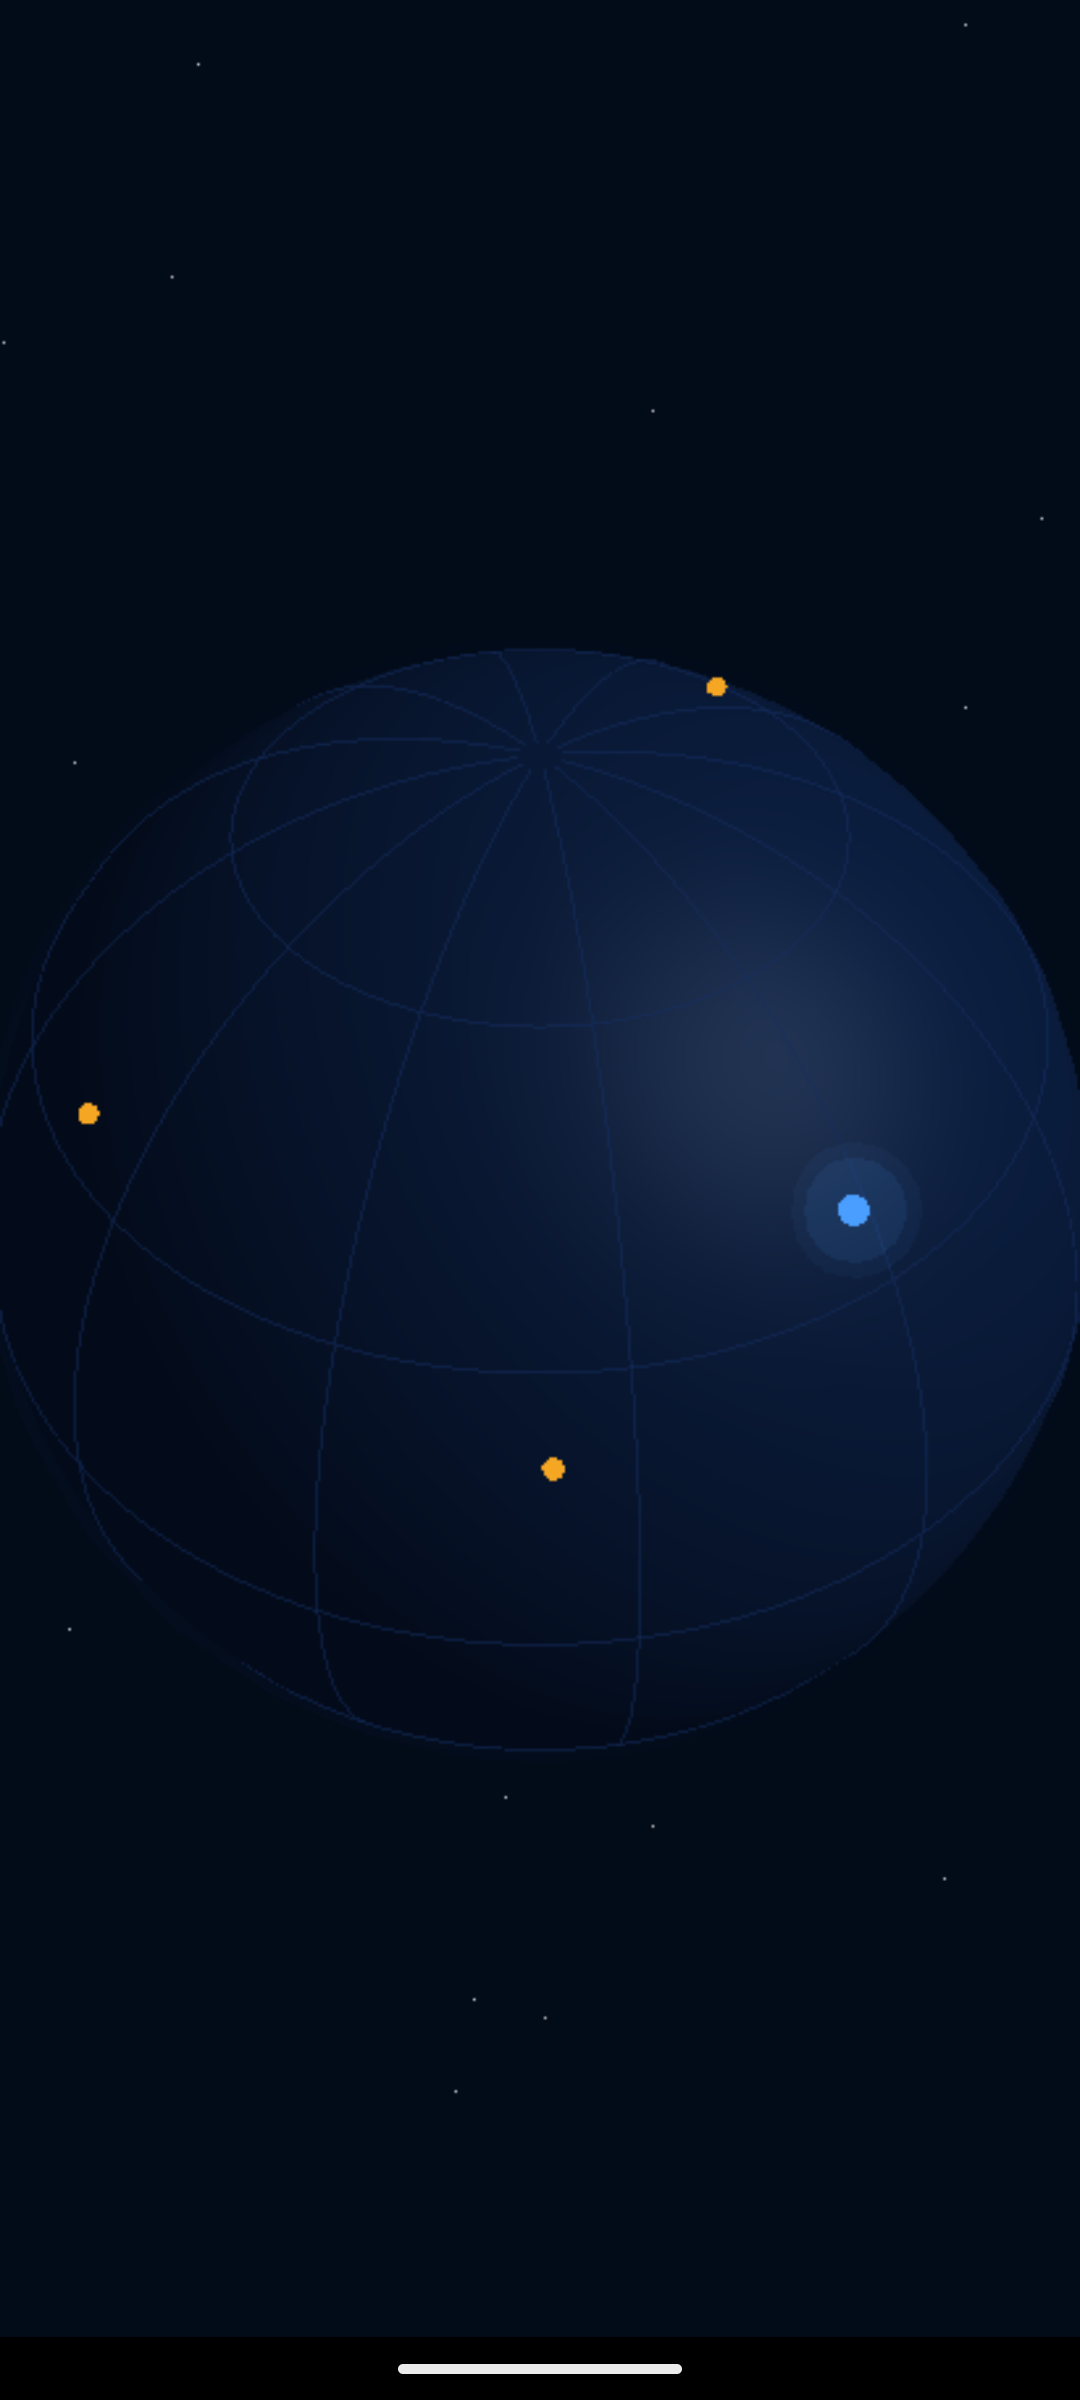
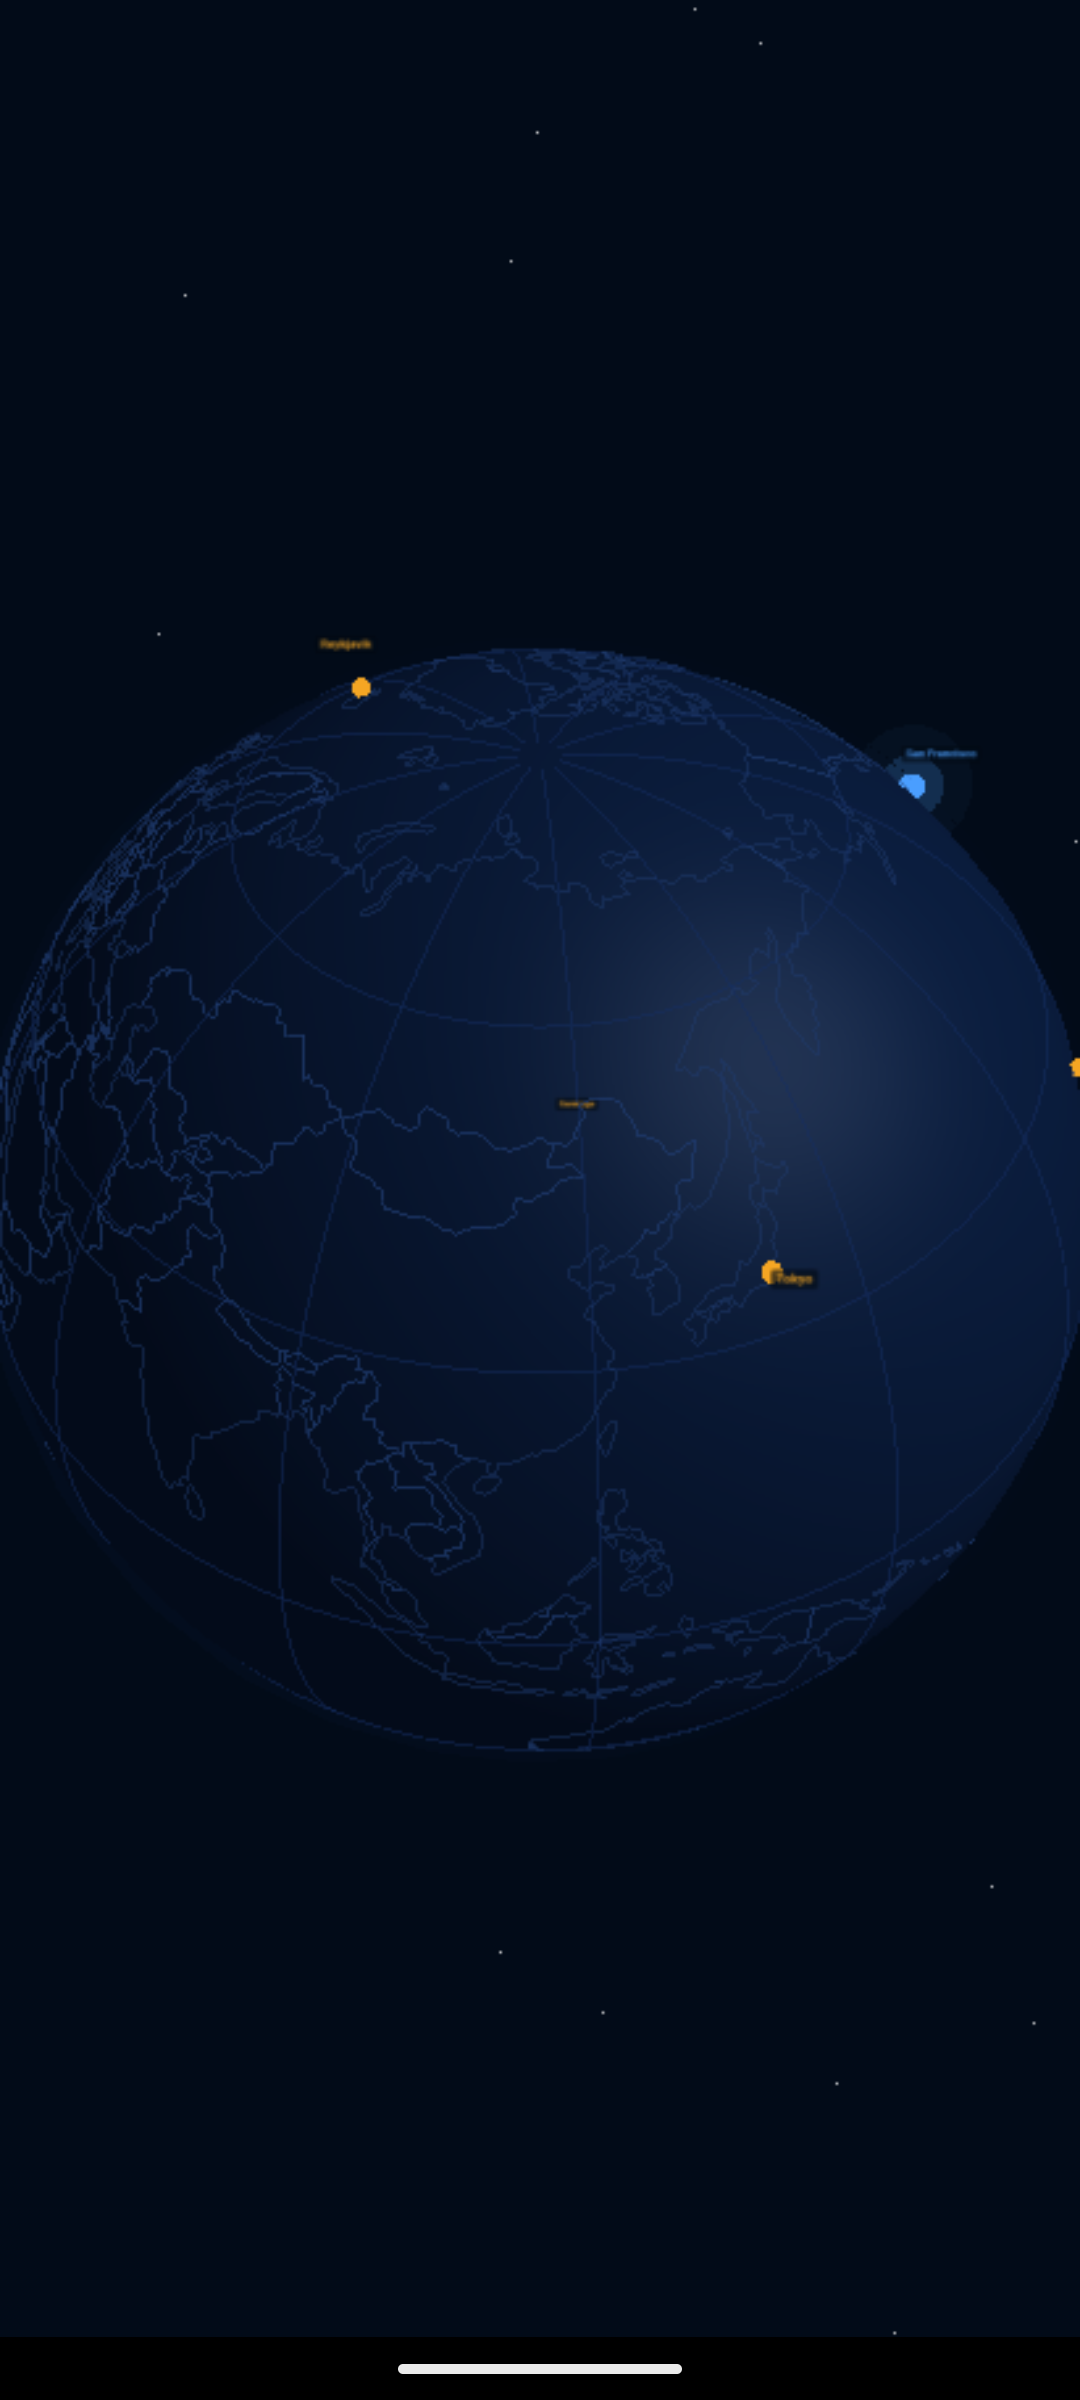
Add country borders and city label sprites
- 177-country outlines from Natural Earth 110m GeoJSON, served from assets
  via shouldInterceptRequest (fetched async after init so first frame is instant)
- Canvas-texture Sprite labels per GlobeMarker.label, coloured to match
  marker style and always camera-facing via THREE.Sprite
- GlobeConfig: showBorders (default true) + borderColor (#1E3A6E)
- Updated screenshots and README

diff --git a/core-globe/src/androidMain/kotlin/dev/advaitm/coreglobe/renderer/GlobeRenderer.android.kt b/core-globe/src/androidMain/kotlin/dev/advaitm/coreglobe/renderer/GlobeRenderer.android.kt
@@ -30,14 +30,17 @@ actual class GlobeRenderer(private val context: Context) {
                     }
                 }
                 override fun shouldInterceptRequest(view: WebView, url: String): WebResourceResponse? {
-                    if (url == "https://localhost/three.min.js") {
-                        return WebResourceResponse(
-                            "application/javascript",
-                            "UTF-8",
+                    return when (url) {
+                        "https://localhost/three.min.js" -> WebResourceResponse(
+                            "application/javascript", "UTF-8",
                             context.assets.open("three.min.js")
                         )
+                        "https://localhost/countries.geojson" -> WebResourceResponse(
+                            "application/json", "UTF-8",
+                            context.assets.open("countries.geojson")
+                        )
+                        else -> super.shouldInterceptRequest(view, url)
                     }
-                    return super.shouldInterceptRequest(view, url)
                 }
             }
             setLayerType(android.view.View.LAYER_TYPE_HARDWARE, null)
@@ -227,6 +230,13 @@ function init() {
         buildStars();
     }
 
+    // Country borders (async fetch from assets)
+    if (${config.showBorders}) {
+        fetch('countries.geojson')
+            .then(function(r) { return r.json(); })
+            .then(function(data) { buildBorders(data); });
+    }
+
     setupInteraction();
     animate();
 }
@@ -278,6 +288,50 @@ function buildStars() {
         opacity: 0.75
     });
     scene.add(new THREE.Points(starGeo, starMat));
+}
+
+function buildBorders(geojson) {
+    var mat = new THREE.LineBasicMaterial({
+        color: hexToInt('${config.borderColor}'),
+        transparent: true,
+        opacity: 0.5
+    });
+    geojson.features.forEach(function(feature) {
+        var geom = feature.geometry;
+        if (!geom) return;
+        var polygons = geom.type === 'Polygon' ? [geom.coordinates] : geom.coordinates;
+        polygons.forEach(function(polygon) {
+            polygon.forEach(function(ring) {
+                var pts = ring.map(function(c) { return latLngTo3D(c[1], c[0], 1.002); });
+                var geo = new THREE.BufferGeometry().setFromPoints(pts);
+                world.add(new THREE.Line(geo, mat));
+            });
+        });
+    });
+}
+
+function makeTextSprite(text, color) {
+    var canvas = document.createElement('canvas');
+    canvas.width = 512;
+    canvas.height = 80;
+    var ctx = canvas.getContext('2d');
+    ctx.font = 'bold 32px Arial, sans-serif';
+    ctx.textAlign = 'center';
+    ctx.textBaseline = 'middle';
+    var metrics = ctx.measureText(text);
+    var pw = metrics.width + 24, ph = 44;
+    var px = 256 - pw / 2, py = 18;
+    ctx.fillStyle = 'rgba(2,11,24,0.72)';
+    ctx.beginPath();
+    ctx.roundRect(px, py, pw, ph, 6);
+    ctx.fill();
+    ctx.fillStyle = color || '#ffffff';
+    ctx.fillText(text, 256, 40);
+    var tex = new THREE.CanvasTexture(canvas);
+    var mat = new THREE.SpriteMaterial({ map: tex, transparent: true, depthTest: false });
+    var sprite = new THREE.Sprite(mat);
+    sprite.scale.set(0.32, 0.05, 1.0);
+    return sprite;
 }
 
 function addMarker(m) {
@@ -341,13 +395,27 @@ function addMarker(m) {
 
     group.userData.markerId = m.id;
     group.userData.dot = dot;
+
+    if (m.label) {
+        var labelColor = m.style === 'current' ? '${config.currentDotColor}' : '${config.destinationDotColor}';
+        var sprite = makeTextSprite(m.label, labelColor);
+        var labelPos = latLngTo3D(m.lat, m.lng, 1.09);
+        sprite.position.copy(labelPos);
+        world.add(sprite);
+        group.userData.labelSprite = sprite;
+    }
+
     world.add(group);
     markers[m.id] = group;
 }
 
 function removeMarker(id) {
     var g = markers[id];
-    if (g) { world.remove(g); delete markers[id]; }
+    if (g) {
+        if (g.userData.labelSprite) world.remove(g.userData.labelSprite);
+        world.remove(g);
+        delete markers[id];
+    }
 }
 
 function addArc(a) {

diff --git a/core-globe/src/commonMain/kotlin/dev/advaitm/coreglobe/api/GlobeConfig.kt b/core-globe/src/commonMain/kotlin/dev/advaitm/coreglobe/api/GlobeConfig.kt
@@ -11,6 +11,8 @@ data class GlobeConfig(
     val showGrid: Boolean           = true,
     val showAtmosphere: Boolean     = true,
     val showStars: Boolean          = true,
+    val showBorders: Boolean        = true,
+    val borderColor: String         = "#1E3A6E",
     val autoRotate: Boolean         = true,
     val autoRotateSpeed: Float      = 0.0022f,
     val tiltRadians: Float          = (Math.PI / 4).toFloat(),

diff --git a/README.md b/README.md
@@ -13,13 +13,15 @@ A standalone Kotlin Multiplatform library that renders an interactive 3D globe i
 ## Features
 
 - Auto-rotating dark navy globe with lat/lon grid and star field
+- **Country borders** — 177-country outlines from Natural Earth 110m data
 - **Current location** marker — pulsing blue beacon with animated rings
 - **Destination** markers — amber dots
+- **City labels** — canvas-texture sprites that always face the camera
 - **Arc** support — animated great-circle flight paths between coordinates
 - Drag to rotate (touch + mouse), with rotation state fed back to Kotlin via bridge
 - Tap a marker to get a callback
-- Fully configurable colors, rotation speed, camera distance, atmosphere, grid, stars
-- Self-contained — Three.js r128 bundled in library assets, no CDN required
+- Fully configurable colors, rotation speed, camera distance, atmosphere, grid, stars, borders
+- Self-contained — Three.js r128 and country GeoJSON bundled in library assets, no CDN required
 
 ## Usage
 
@@ -56,6 +58,8 @@ GlobeView(
         showGrid             = true,
         showAtmosphere       = true,
         showStars            = true,
+        showBorders          = true,
+        borderColor          = "#1E3A6E",
         autoRotate           = true,
         autoRotateSpeed      = 0.0022f,
         cameraDistance       = 5.0f,